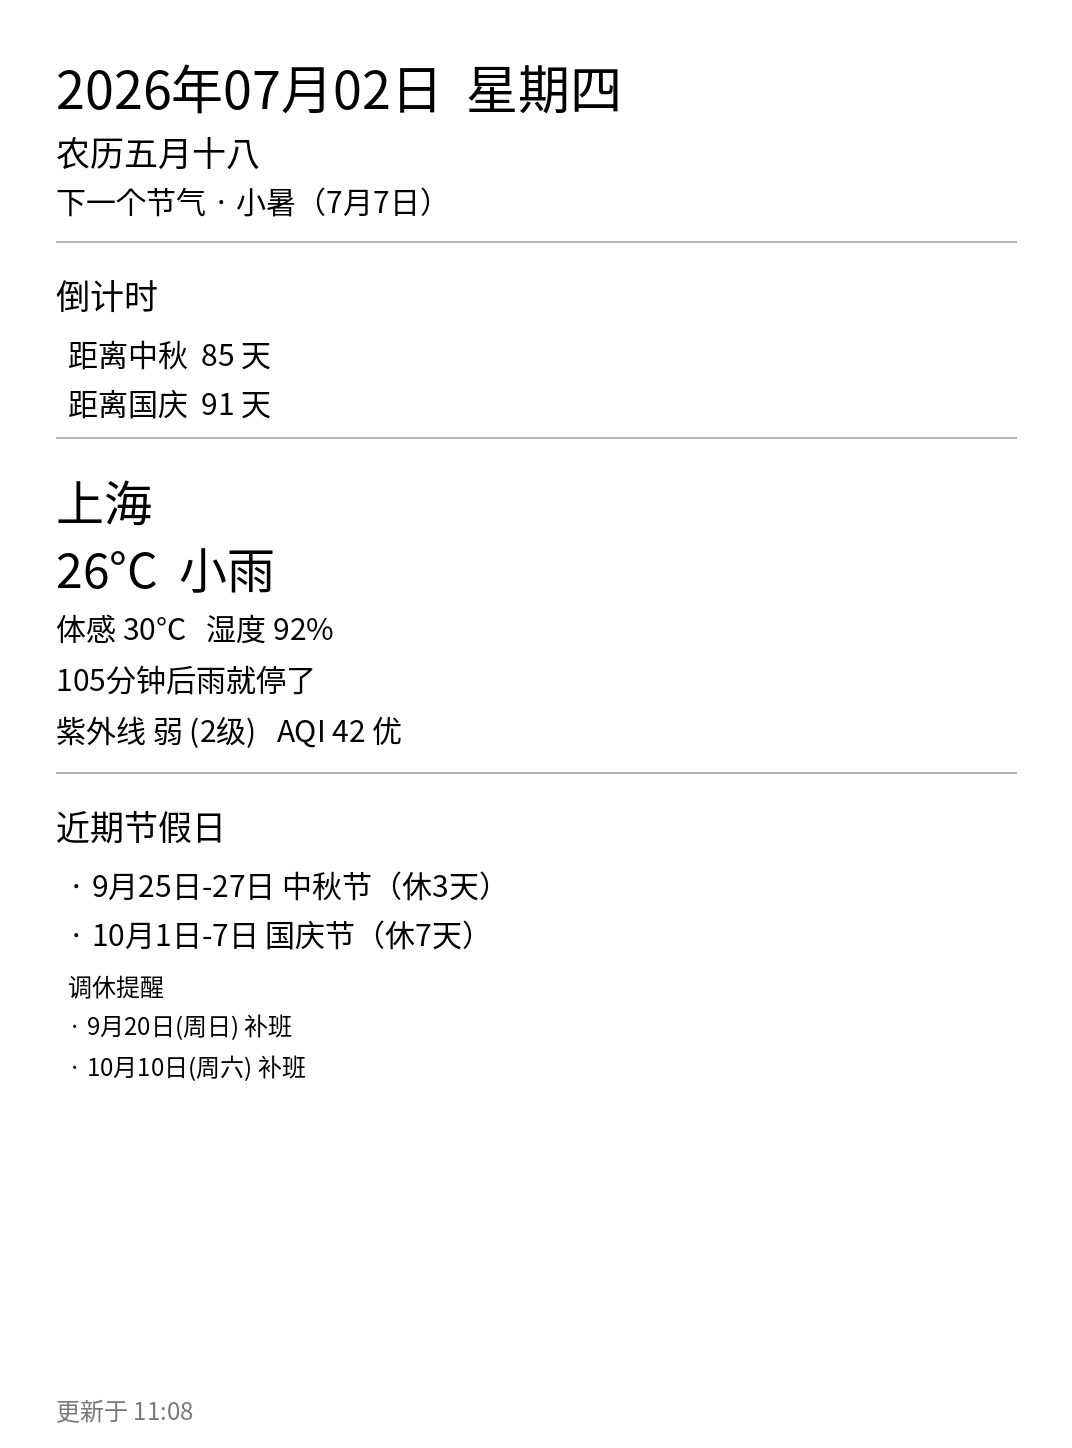
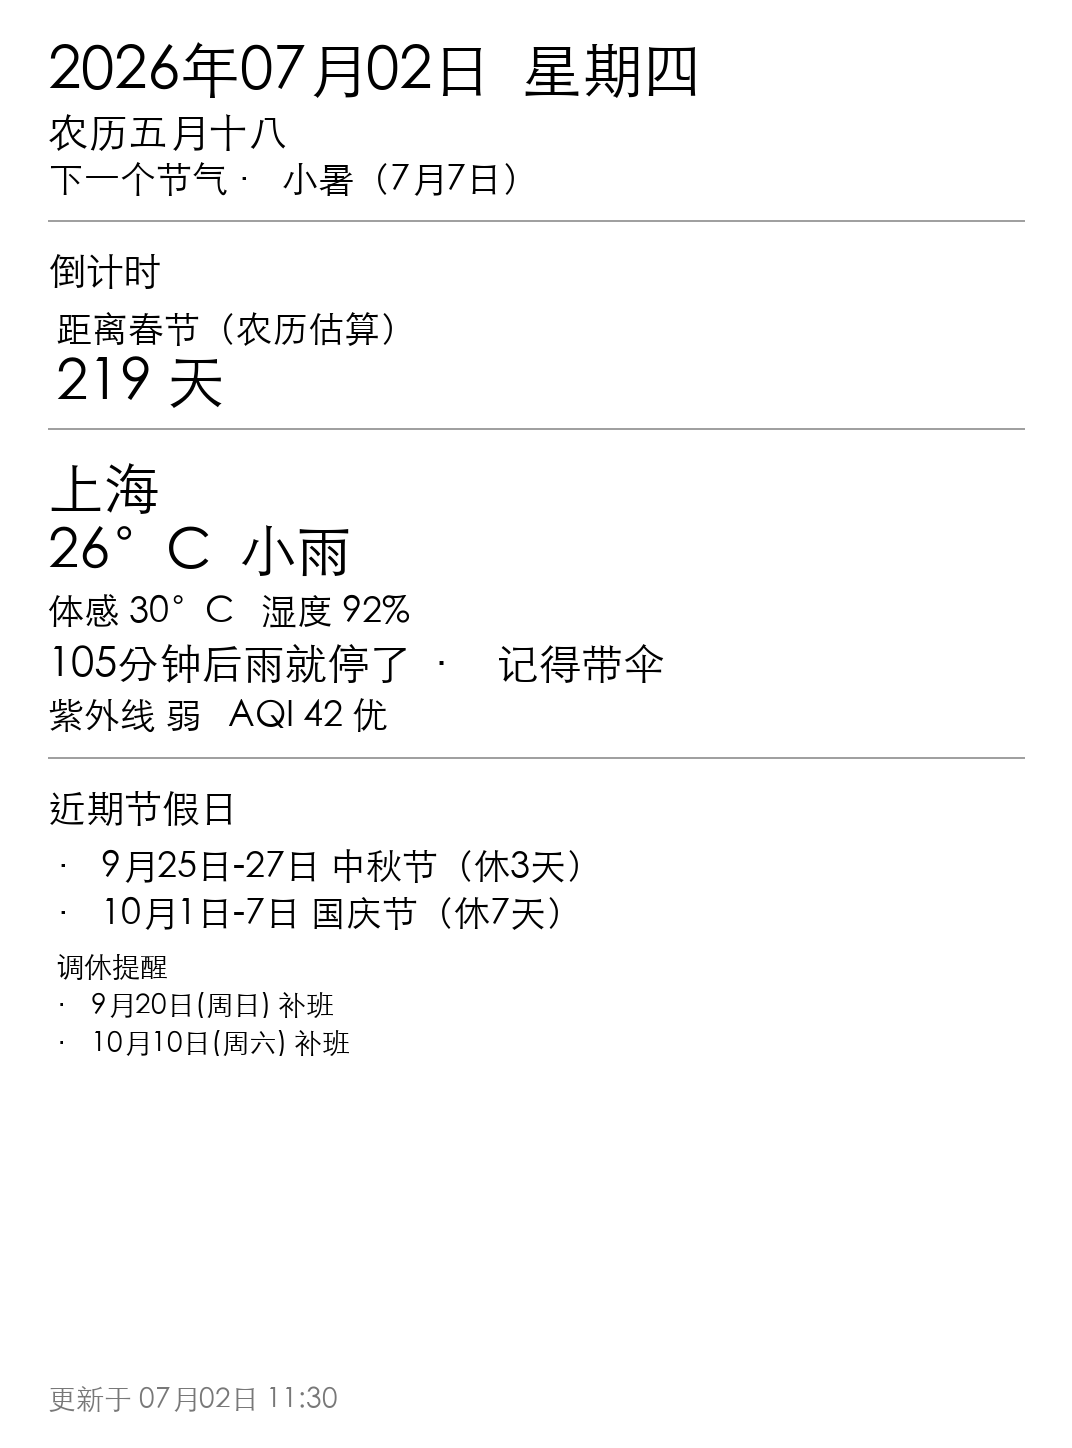
update

Changed region(s): [[0.0308, 0.0311, 0.6465, 0.7459], [0.4618, 0.4351, 0.6157, 0.4662], [0.0308, 0.9634, 0.1847, 0.9945]]

diff --git a/render_dashboard.py b/render_dashboard.py
@@ -9,7 +9,7 @@ from data_sources import DashboardData
 
 
 def find_font(size: int) -> ImageFont.FreeTypeFont | ImageFont.ImageFont:
-  # (path, ttc_index) — wrong TTC index causes garbled glyphs / black bars on macOS.
+    # (path, ttc_index) — wrong TTC index causes garbled glyphs / black bars on macOS.
     candidates: list[tuple[str, int]] = [
         (config.FONT_PATH, 0),
         ("/usr/share/fonts/opentype/noto/NotoSansCJK-Regular.ttc", 0),
@@ -44,12 +44,30 @@ def text_bottom(draw: ImageDraw.ImageDraw, x: int, y: int, text: str, font, fill
 
 def draw_section_title(draw: ImageDraw.ImageDraw, x: int, y: int, title: str, font) -> int:
     bottom = text_bottom(draw, x, y, title, font)
-    return bottom + 18
+    return bottom + 22
 
 
-def draw_divider(draw: ImageDraw.ImageDraw, y: int, width: int, margin: int = 56) -> int:
-    draw.line((margin, y, width - margin, y), fill=180, width=2)
-    return y + 28
+def draw_divider(draw: ImageDraw.ImageDraw, y: int, width: int, margin: int = 48) -> int:
+    draw.line((margin, y, width - margin, y), fill=160, width=2)
+    return y + 32
+
+
+def draw_countdown_line(
+    draw: ImageDraw.ImageDraw,
+    x: int,
+    y: int,
+    name: str,
+    days: int,
+    is_estimate: bool,
+    label_font,
+    number_font,
+    note_font,
+) -> int:
+    label = f"距离{name}"
+    if is_estimate:
+        label += "（农历估算）"
+    y = text_bottom(draw, x, y, label, label_font) + 6
+    return text_bottom(draw, x, y, f"{days} 天", number_font) + 14
 
 
 def render_dashboard(data: DashboardData, output_path: Path) -> Path:
@@ -57,68 +75,84 @@ def render_dashboard(data: DashboardData, output_path: Path) -> Path:
     image = Image.new("L", (width, height), 255)
     draw = ImageDraw.Draw(image)
 
-    title_font = find_font(52)
-    subtitle_font = find_font(34)
-    body_font = find_font(30)
-    small_font = find_font(24)
-    weather_font = find_font(48)
+    title_font = find_font(60)
+    subtitle_font = find_font(40)
+    section_font = find_font(38)
+    body_font = find_font(36)
+    small_font = find_font(28)
+    weather_font = find_font(56)
+    countdown_number_font = find_font(58)
+    rain_alert_font = find_font(42)
 
-    margin = 56
-    y = 48
+    margin = 48
+    y = 40
 
     date_line = data.now.strftime("%Y年%m月%d日") + f"  {data.weekday}"
-    y = text_bottom(draw, margin, y, date_line, title_font) + 12
-    y = text_bottom(draw, margin, y, data.lunar_date, subtitle_font) + 8
+    y = text_bottom(draw, margin, y, date_line, title_font) + 14
+    y = text_bottom(draw, margin, y, data.lunar_date, subtitle_font) + 10
 
     if data.jieqi_today:
         jieqi_line = f"今日节气 · {data.jieqi_today}"
     else:
         jieqi_line = f"下一个节气 · {data.next_jieqi_name}（{data.next_jieqi_date}）"
-    y = text_bottom(draw, margin, y, jieqi_line, body_font) + 12
-    y = draw_divider(draw, y + 12, width)
+    y = text_bottom(draw, margin, y, jieqi_line, body_font) + 14
+    y = draw_divider(draw, y + 10, width, margin)
 
-    y = draw_section_title(draw, margin, y, "倒计时", subtitle_font)
+    y = draw_section_title(draw, margin, y, "倒计时", section_font)
     if data.countdowns:
-        for name, days in data.countdowns:
-            y = text_bottom(draw, margin + 12, y, f"距离{name}  {days} 天", body_font) + 10
+        for name, days, is_estimate in data.countdowns:
+            y = draw_countdown_line(
+                draw,
+                margin + 8,
+                y,
+                name,
+                days,
+                is_estimate,
+                body_font,
+                countdown_number_font,
+                small_font,
+            )
     else:
-        y = text_bottom(draw, margin + 12, y, "暂无即将到来的节日", body_font) + 10
-    y = draw_divider(draw, y + 8, width)
+        y = text_bottom(draw, margin + 8, y, "暂无即将到来的节日", body_font) + 14
+    y = draw_divider(draw, y + 6, width, margin)
 
-    y = text_bottom(draw, margin, y, config.CITY_NAME, weather_font) + 6
-    y = text_bottom(draw, margin, y, f"{data.temperature}  {data.weather_text}", weather_font) + 12
+    y = text_bottom(draw, margin, y, config.CITY_NAME, weather_font) + 8
+    y = text_bottom(draw, margin, y, f"{data.temperature}  {data.weather_text}", weather_font) + 16
     y = text_bottom(
         draw,
         margin,
         y,
         f"体感 {data.feels_like}   湿度 {data.humidity}",
         body_font,
-    ) + 12
-    y = text_bottom(draw, margin, y, data.rain_hint, body_font) + 12
+    ) + 14
+
+    rain_font = rain_alert_font if data.rain_alert else body_font
+    y = text_bottom(draw, margin, y, data.rain_hint, rain_font) + 14
+
     y = text_bottom(
         draw,
         margin,
         y,
         f"紫外线 {data.uv_level}   AQI {data.aqi} {data.aqi_category}",
         body_font,
-    ) + 12
-    y = draw_divider(draw, y + 12, width)
+    ) + 14
+    y = draw_divider(draw, y + 10, width, margin)
 
-    y = draw_section_title(draw, margin, y, "近期节假日", subtitle_font)
+    y = draw_section_title(draw, margin, y, "近期节假日", section_font)
     if data.upcoming_holidays:
         for line in data.upcoming_holidays:
-            y = text_bottom(draw, margin + 12, y, f"· {line}", body_font) + 10
+            y = text_bottom(draw, margin + 8, y, f"· {line}", body_font) + 12
     else:
-        y = text_bottom(draw, margin + 12, y, "未来120天暂无节假日", body_font) + 10
+        y = text_bottom(draw, margin + 8, y, "未来120天暂无节假日", body_font) + 12
 
     if data.makeup_workdays:
-        y += 8
-        y = text_bottom(draw, margin + 12, y, "调休提醒", small_font) + 8
+        y += 10
+        y = text_bottom(draw, margin + 8, y, "调休提醒", small_font) + 10
         for line in data.makeup_workdays:
-            y = text_bottom(draw, margin + 12, y, f"· {line}", small_font) + 8
+            y = text_bottom(draw, margin + 8, y, f"· {line}", small_font) + 10
 
-    updated = data.now.strftime("更新于 %H:%M")
-    draw.text((margin, height - 56), updated, fill=120, font=small_font)
+    updated = data.now.strftime("更新于 %m月%d日 %H:%M")
+    draw.text((margin, height - 64), updated, fill=120, font=small_font)
 
     output_path.parent.mkdir(parents=True, exist_ok=True)
     image.save(output_path, format="PNG", optimize=True)

diff --git a/data_sources.py b/data_sources.py
@@ -5,7 +5,7 @@ from datetime import date, datetime, timedelta
 from typing import Any
 
 import requests
-from lunar_python import Solar
+from lunar_python import Lunar, Solar
 
 import auth
 import config
@@ -19,12 +19,13 @@ class DashboardData:
     jieqi_today: str
     next_jieqi_name: str
     next_jieqi_date: str
-    countdowns: list[tuple[str, int]]
+    countdowns: list[tuple[str, int, bool]]  # name, days, is_lunar_estimate
     weather_text: str
     temperature: str
     feels_like: str
     humidity: str
     rain_hint: str
+    rain_alert: bool
     uv_level: str
     aqi: str
     aqi_category: str
@@ -65,12 +66,26 @@ def load_holidays(today: date) -> list[dict[str, Any]]:
     years = {today.year, today.year + 1}
     days: list[dict[str, Any]] = []
     for year in sorted(years):
-        days.extend(fetch_holiday_year(year))
+        try:
+            days.extend(fetch_holiday_year(year))
+        except requests.RequestException:
+            continue
     return days
 
 
-def build_countdowns(today: date, holidays: list[dict[str, Any]]) -> list[tuple[str, int]]:
-    results: list[tuple[str, int]] = []
+def get_lunar_spring_festival_date(today: date) -> date:
+    """Next lunar 正月初一 (Spring Festival) by astronomical calendar."""
+    lunar_year = Solar.fromYmd(today.year, today.month, today.day).getLunar().getYear()
+    spring_solar = Lunar.fromYmd(lunar_year, 1, 1).getSolar()
+    spring_date = date(spring_solar.getYear(), spring_solar.getMonth(), spring_solar.getDay())
+    if spring_date < today:
+        spring_solar = Lunar.fromYmd(lunar_year + 1, 1, 1).getSolar()
+        spring_date = date(spring_solar.getYear(), spring_solar.getMonth(), spring_solar.getDay())
+    return spring_date
+
+
+def build_countdowns(today: date, holidays: list[dict[str, Any]]) -> list[tuple[str, int, bool]]:
+    results: list[tuple[str, int, bool]] = []
     seen: set[str] = set()
 
     for target in COUNTDOWN_TARGETS:
@@ -84,8 +99,12 @@ def build_countdowns(today: date, holidays: list[dict[str, Any]]) -> list[tuple[
             if target in seen:
                 break
             seen.add(target)
-            results.append((target, (holiday_date - today).days))
+            results.append((target, (holiday_date - today).days, False))
             break
+
+    if "春节" not in seen:
+        spring_date = get_lunar_spring_festival_date(today)
+        results.append(("春节", (spring_date - today).days, True))
 
     results.sort(key=lambda x: x[1])
     return results[:3]
@@ -195,11 +214,32 @@ def fetch_rain_hint() -> str:
         for hour in data.get("hourly", [])[:6]:
             text = hour.get("text", "")
             if "雨" in text:
-                return f"{hour.get('fxTime', '')[-5:]} 起{text}"
+                fx_time = hour.get("fxTime", "")
+                time_text = fx_time[11:16] if len(fx_time) >= 16 else fx_time[-5:]
+                return f"{time_text} 起{text}"
     except Exception:
         pass
 
     return "未来2小时无明显降水"
+
+
+def is_rainy(weather_text: str, rain_hint: str) -> bool:
+    if any(keyword in weather_text for keyword in ("雨", "雪", "霰")):
+        return True
+    if any(token in rain_hint for token in ("无明显降水", "无降水", "不会下雨", "雨就停了")):
+        return "雨" in rain_hint
+    return "雨" in rain_hint or "雪" in rain_hint
+
+
+def build_rain_display(weather_text: str, rain_hint: str) -> tuple[str, bool]:
+    rainy = is_rainy(weather_text, rain_hint)
+    if not rainy:
+        return rain_hint, False
+
+    hint = rain_hint
+    if "伞" not in hint:
+        hint = f"{hint}  ·  记得带伞"
+    return hint, True
 
 
 def fetch_uv() -> str:
@@ -208,7 +248,7 @@ def fetch_uv() -> str:
     if not daily:
         return "--"
     item = daily[0]
-    return f"{item.get('category', '--')} ({item.get('level', '--')}级)"
+    return str(item.get("category", "--"))
 
 
 def fetch_aqi() -> tuple[str, str]:
@@ -238,7 +278,8 @@ def collect_dashboard_data() -> DashboardData:
     upcoming_holidays, makeup_workdays = build_upcoming_holidays(today, holidays)
 
     weather_text, temperature, feels_like, humidity = fetch_weather()
-    rain_hint = fetch_rain_hint()
+    raw_rain_hint = fetch_rain_hint()
+    rain_hint, rain_alert = build_rain_display(weather_text, raw_rain_hint)
     uv_level = fetch_uv()
     aqi, aqi_category = fetch_aqi()
 
@@ -255,6 +296,7 @@ def collect_dashboard_data() -> DashboardData:
         feels_like=feels_like,
         humidity=humidity,
         rain_hint=rain_hint,
+        rain_alert=rain_alert,
         uv_level=uv_level,
         aqi=aqi,
         aqi_category=aqi_category,